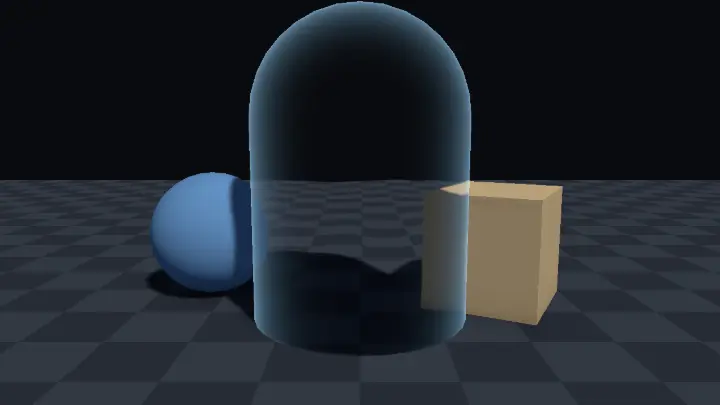
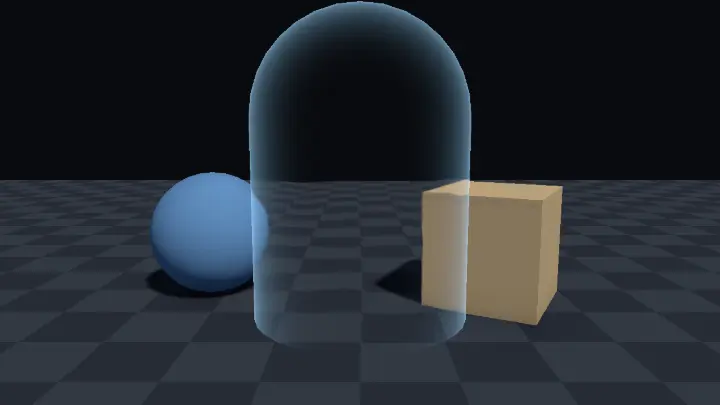
dispatch(cloak-refraction-shimmer-fix): 표본 수정: cloak-refraction-shimmer 리뷰 반영
Dispatch-Job: cloak-refraction-shimmer-fix
Dispatch-Profile: org
Dispatch-Model: claude-opus-5-5

Changed region(s): [[0.3056, 0.4444, 0.6722, 0.8889], [0.3972, 0.4444, 0.4278, 0.4741]]

diff --git a/web/src/specimens/cloak-refraction-shimmer/meta.ts b/web/src/specimens/cloak-refraction-shimmer/meta.ts
@@ -16,12 +16,12 @@ export const meta: SpecimenMeta = {
     'Opaque Texture 를 법선으로 민 화면 좌표로 읽어 몸 대신 뒤 장면을 그리고, 앞 물체가 끌려 들어오지 않게 깊이로 거를 수 있다.',
     '진행값 하나로 높이·노이즈·프레넬 마스크 위의 경계 띠를 훑어 은신을 켜고 끌 수 있다.',
     '프레넬 테두리와 최대 은신 값으로 "보이지 않지만 알아볼 수 있는" 정도를 게임 규칙에 맞출 수 있다.',
-    'C# 으로 여러 Renderer 의 머티리얼을 함께 움직이고, 은신 중 그림자를 끄고 피격 노출을 제한기로 거는 이유를 설명할 수 있다.',
+    'C# 으로 이 셰이더를 쓰는 Renderer 의 머티리얼만 복사해 함께 움직이고, 전환 중 요청을 미루고 피격 노출을 제한기로 거는 이유를 설명할 수 있다.',
   ],
   tags: ['씬 컬러', '화면 좌표 왜곡', '프레넬', '노이즈', '진행값 마스크'],
   difficulty: 3,
   shaderFile: 'CloakRefractionShimmer.shader',
-  stage: { kind: 'depth', mesh: 'capsule', blend: 'alpha' },
+  stage: { kind: 'depth', mesh: 'capsule', blend: 'alpha', zwrite: true },
   requires: ['opaque', 'depth'],
   params: [
     { key: '_Cloak', label: '은신', type: 'range', min: 0, max: 1, step: 0.01, default: 0.55, hint: '0 은 보이는 몸, 1 은 완전 은신. 경계 띠가 이 값을 따라 몸 위를 훑는다. 자동 데모와 C# `CloakController.SetCloaked` 가 이 값을 움직인다. 머티리얼 기본값 0.55 는 미리보기용이고 C# 은 0 에서 시작한다' },
@@ -42,7 +42,7 @@ export const meta: SpecimenMeta = {
     { key: '_BodyBottom', showWhen: { key: '_MaskMode', values: ['0'] }, label: '몸 아래 끝', type: 'range', min: -2, max: 2, step: 0.05, default: -1, hint: '높이 훑기가 시작하는 오브젝트 공간 y. 기본 캡슐은 가운데가 피벗이라 -1 이다. 발에 피벗이 있는 캐릭터는 0 으로 둔다. 높이 훑기에서만 쓴다' },
     { key: '_BodyHeight', showWhen: { key: '_MaskMode', values: ['0'] }, label: '몸 높이', type: 'range', min: 0.5, max: 4, step: 0.05, default: 2, hint: '발에서 머리까지 오브젝트 공간 길이. 실제보다 작으면 은신이 끝나기 전에 띠가 머리를 지나가 버리고, 크면 끝까지 머리가 남는다. 높이 훑기에서만 쓴다' },
     { key: '_Refraction', label: '굴절 세기', type: 'range', min: 0, max: 0.15, step: 0.005, default: 0.05, hint: '뒤 장면을 미는 양(화면 높이 단위). 0 이면 뒤가 곧게 비쳐 테두리만 남고, 크면 몸 모양대로 뒤가 크게 일그러져 움직일 때 눈에 띈다' },
-    { key: '_CalmAtFull', label: '완전 은신 때 굴절 줄이기', type: 'toggle', default: true, hint: '은신이 끝나 갈수록 미는 양을 0.3 배까지 줄인다. 전환 중에는 일렁여 눈에 띄고 다 숨으면 거의 보이지 않는다. 끄면 다 숨어도 굴절 세기 그대로 일렁인다' },
+    { key: '_CalmAtFull', label: '완전 은신 때 굴절 줄이기', type: 'toggle', default: true, hint: '은신이 끝나 갈수록 미는 양을 0.3 배까지 줄인다. 전환 중에는 일렁여 눈에 띄고 다 숨으면 거의 보이지 않는다. 끄면 다 숨어도 굴절 세기 그대로 일렁인다. 은신 0.6 이상에서만 차이가 난다' },
     { key: '_ShimmerSpeed', label: '일렁임 속도', type: 'range', min: 0, max: 3, step: 0.05, default: 0.8, hint: '굴절에 더하는 노이즈가 위로 흐르는 빠르기. 0 이면 몸에 붙은 채 멈춘 결이 된다' },
     { key: '_NoiseScale', label: '노이즈 크기', type: 'range', min: 1, max: 20, step: 0.5, default: 6, hint: '일렁임 결, 높이 경계의 흔들림, 노이즈 디졸브 얼룩의 촘촘함. 작으면 크게 굽이치고 크면 잘게 부서진다' },
     { key: '_RimColor', label: '테두리 색', type: 'color', default: '#9fd8ff', hint: '은신한 만큼 윤곽에 더하는 색. 팀 색으로 바꿔 쓸 수 있다' },
@@ -50,7 +50,7 @@ export const meta: SpecimenMeta = {
     { key: '_RimPower', label: '테두리 날카로움', type: 'range', min: 0.5, max: 8, step: 0.1, default: 3, hint: '클수록 테두리가 윤곽의 가는 선으로 좁아지고, 작으면 몸 안쪽까지 번진다' },
     { key: '_BandColor', label: '경계 띠 색', type: 'color', default: '#7fd4ff', hint: '보이는 곳과 숨은 곳 사이를 지나가는 띠의 색' },
     { key: '_BandWidth', label: '경계 띠 폭', type: 'range', min: 0.01, max: 0.3, step: 0.01, default: 0.08, hint: '띠의 두께(마스크 값 기준). 넓히면 전환이 부드럽고 띠가 굵어진다' },
-    { key: '_BandGlow', label: '경계 띠 밝기', type: 'range', min: 0, max: 3, step: 0.05, default: 1, hint: '띠 색에 곱하는 밝기. 0 이면 어두운 띠가 된다. 넓은 몸을 띠가 훑을 때 번쩍이지 않게 기본은 낮게 두었다' },
+    { key: '_BandGlow', label: '경계 띠 밝기', type: 'range', min: 0, max: 3, step: 0.05, default: 1, hint: '띠 색에 곱하는 밝기. 띠는 바탕에 더하지 않고 85% 덮으므로 기본 1 은 띠 색 그대로이고, 0 이면 어두운 띠가 된다. 2 이상은 띠 색보다 밝아 넓은 몸을 훑을 때 번쩍여 보일 수 있다' },
     { key: '_BaseColor', label: '몸 색', type: 'color', default: '#8a96a3', hint: '보이는 상태의 몸 색. 주 광원과 환경광으로 음영한다' },
   ],
   presets: [
@@ -75,17 +75,17 @@ export const meta: SpecimenMeta = {
   },
   steps: [
     { n: 1, label: '화면 공간 오프셋', body: '월드 법선을 카메라의 오른쪽, 위 축에 내린 값(반대 방향)에 흐르는 노이즈를 더한 미는 방향이다. 빨강이 가로, 초록이 세로로 미는 양이다. 캡슐 가운데는 노이즈 얼룩이 섞인 연한 파스텔색이고, 왼쪽 가장자리는 분홍(오른쪽으로 민다), 오른쪽은 청록(왼쪽으로 민다), 위 둥근 끝은 자홍(아래로 민다)으로 짙어진다. 가장자리마다 가운데 쪽을 가리켜 몸 뒤 장면을 조금 키워 보인다. 재생하면 얼룩이 천천히 위로 흐른다. 이 방향에 굴절 세기를 곱해 씬 색상을 읽는 자리를 옮긴다.' },
-    { n: 2, label: '은신 마스크와 경계 띠', body: '픽셀마다 언제 사라질지 정한 값과 진행값을 비교한 결과다. 검정은 아직 보이는 몸, 회색은 숨은 곳, 흰 띠가 그 사이를 지나가는 경계다. 높이 훑기에서는 발(바닥 아래)부터 숨어 지금은 아래쪽 절반이 회색이고, 노이즈로 흔든 흰 띠가 가운데를 구불구불 가로지른다. 은신 값을 올리면 띠가 머리 쪽으로 올라간다. 마스크 방식을 프레넬 안쪽부터로 바꾸면 가운데부터 회색이 되고 흰 띠가 윤곽 쪽으로 퍼져 나간다.' },
+    { n: 2, label: '은신 마스크와 경계 띠', body: '픽셀마다 언제 사라질지 정한 값과 진행값을 비교한 결과다. 검정은 아직 보이는 몸, 회색은 숨은 곳, 흰 띠가 그 사이를 지나가는 경계다. 높이 훑기에서는 발(아래 끝)부터 숨어 지금은 아래쪽 절반이 회색이고, 노이즈로 흔든 흰 띠가 가운데를 구불구불 가로지른다. 은신 값을 올리면 띠가 머리 쪽으로 올라간다. 마스크 방식을 프레넬 안쪽부터로 바꾸면 가운데부터 회색이 되고 흰 띠가 윤곽 쪽으로 퍼져 나간다.' },
     { n: 3, label: '가드를 거친 휜 배경', body: '밀린 좌표로 Opaque Texture 를 읽은 결과다. 몸 전체가 뒤의 바닥 격자와 상자로 채워지고, 격자 줄이 몸 모양과 노이즈 결을 따라 물결친다. 위쪽은 검은 하늘뿐이라 휘어도 티가 나지 않는다. 가장자리는 가운데 쪽 장면을 끌어와 읽으므로 공의 오른쪽 일부가 몸 가장자리에서 끊기고 바닥으로 바뀐다. 밀린 자리가 몸보다 앞에 있는 물체면 밀지 않은 좌표로 돌아가 앞 물체가 몸 속으로 끌려 들어오지 않는다. 아직 몸 색, 테두리, 띠가 없다.' },
     { n: 4, label: '프레넬 테두리', body: '가운데는 어둡고 시선과 비스듬한 윤곽으로 갈수록 밝다. 은신한 만큼만 이 테두리를 얹어, 다 숨은 몸도 윤곽으로는 알아볼 수 있게 한다. 최종 화면에서는 아직 보이는 위쪽 몸에는 테두리가 없고, 숨은 아래쪽 윤곽에만 남는다.' },
   ],
-  offNote: '굴절과 테두리 없이 몸 색의 알파만 `1 - 은신` 으로 낮춘 페이드. 중간에는 회색 몸과 휘지 않은 뒤 장면이 반씩 겹쳐 비쳐 반투명 유령처럼 보이고, 은신이 끝나면 테두리도 일렁임도 없이 실루엣까지 통째로 사라져 어디 있는지 알 길이 없다. 실제 캐릭터에서는 깊이를 쓰지 않는 알파 혼합이라 중간에 몸 뒷면과 겹친 팔다리까지 함께 비친다.',
+  offNote: '굴절과 테두리 없이 몸 색의 알파만 `1 - 은신` 으로 낮춘 페이드. 중간에는 회색 몸과 휘지 않은 뒤 장면이 반씩 겹쳐 비쳐 반투명 유령처럼 보이고, 은신이 끝나면 테두리도 일렁임도 없이 실루엣까지 통째로 사라져 어디 있는지 알 길이 없다. 실제 캐릭터에서는 깊이를 쓰지 않는 알파 혼합이라 중간에 몸 뒤쪽에 겹친 부분과 팔다리까지 함께 비친다.',
   mistakes: [
     { title: '망토 속에서 뒤의 연기, 파티클, 물, 유리가 사라진다', body: 'Opaque Texture 는 불투명 범위(Render Queue 2500 이하)까지 그린 뒤 복사한 것이라 투명 물체가 들어 있지 않다. 은신한 몸은 그 복사본을 알파 1 로 덮어 그리므로, 몸보다 먼저 그려진 뒤쪽 투명 물체는 몸 모양대로 지워진다. 몸보다 늦게 그려지는 뒤쪽 투명 물체는 이 셰이더가 깊이를 써 두었으므로 가려진다. 꼭 비쳐야 하는 물체는 불투명이나 잘라 내기 머티리얼로 바꾼다.' },
     { title: '앞에 있는 물체가 몸 속으로 끌려 들어온다', body: 'Opaque Texture 는 앞뒤를 가리지 않고 화면 전체를 담는다. 밀린 좌표가 몸 앞 물체에 닿으면 그 색을 읽는다. 이 셰이더는 이 픽셀의 눈 깊이(`sgSceneDepth(i.screenUV) - i.depthDelta`)와 밀린 좌표의 깊이를 비교해 앞이면 밀지 않은 좌표로 돌아간다. 그래도 끌려 들어오면 URP Asset 의 Depth Texture 가 켜져 있는지 본다. 꺼져 있으면 깊이를 읽지 못해 이 가드가 동작하지 않는다.' },
     { title: '은신한 몸이 회색이나 검은 판으로 보인다', body: 'URP Asset 의 Opaque Texture 가 꺼져 있으면 씬 색상이 비어 있다. 품질 단계마다 URP Asset 이 따로 있으면 모두 켜고, 카메라 Inspector 의 Rendering > Opaque Texture 가 Off 이면 Use Pipeline Settings 로 바꾼다. 머티리얼의 Render Queue 를 2500 이하로 바꾸면 복사되기 전에 그려지므로 From Shader(Transparent)로 둔다.' },
-    { title: '팔이 몸통 앞을 지나는데 팔 속에 몸통이 아니라 뒤 배경이 비친다', body: '몸은 자기 자신을 비추지 못한다. Opaque Texture 는 불투명 장면만 담고 은신한 몸은 그 안에 없으므로, 팔이 휘어 보여 주는 것은 몸통 너머의 배경이다. 이 셰이더는 깊이 패스(`CloakDepth`)로 가장 앞면만 남겨 몸통이 팔 위에 칠해지지는 않게 했다. 팔과 몸통이 겹친 자리의 굴절이 어색하면 굴절 세기를 낮춰 눈에 덜 띄게 한다.' },
-    { title: '몸은 사라졌는데 바닥에 그림자가 걸어 다닌다', body: '이 셰이더는 보이는 상태의 몸을 위해 `ShadowCaster` 패스를 둔다. 은신 값만 올리면 그림자는 그대로다. `CloakController` 는 은신이 절반을 넘으면 Renderer 의 Cast Shadows 를 Off 로 바꾸고, 내려오면 원래 값으로 돌린다. 스크립트 없이 머티리얼 값만 바꿀 때는 Mesh Renderer(Skinned Mesh Renderer)의 Lighting > Cast Shadows 를 직접 끈다.' },
+    { title: '팔이 몸통 앞을 지나는데 팔 속에 몸통이 아니라 뒤 배경이 비친다', body: '몸은 자기 자신을 비추지 못한다. Opaque Texture 는 불투명 장면만 담고 은신한 몸은 그 안에 없으므로, 팔이 휘어 보여 주는 것은 몸통 너머의 배경이다. 이 셰이더는 Forward 패스 하나가 `ZWrite On` 으로 깊이를 쓴다. 몸이 스스로 겹친 자리가 어떻게 그려지는지는 웹 미리보기 링크에 `s.mesh=torus` 를 붙이거나 Unity 촬영 도구의 `--stage=mesh=torus` 로 고리 메시를 띄워 볼 수 있다. 팔과 몸통이 겹친 자리의 굴절이 어색하면 굴절 세기를 낮춰 눈에 덜 띄게 한다.' },
+    { title: '보이는 상태의 캐릭터에 그림자가 없다', body: '이 머티리얼은 투명 큐 셰이더라 그림자를 만들지 않는다 (`ShadowCaster` 패스가 없다). 은신 값이 0 이어도 바닥에 그림자가 생기지 않는다. 보이는 동안 그림자가 필요하면 평소에는 불투명 Lit 머티리얼을 쓰고 은신할 때만 이 머티리얼로 바꾼다 (바꾸는 순간 그림자도 사라진다). 이 셰이더에 `ShadowCaster` 패스를 더하면 다 숨은 뒤에도 바닥에 그림자가 걸어 다니고, 숨은 몸이 비추는 바닥에 자기 그림자가 찍혀 아래쪽이 검게 보인다.' },
   ],
   unity: {
     setup: [
@@ -93,24 +93,24 @@ export const meta: SpecimenMeta = {
       '사용 중인 URP Asset(Project Settings > Quality 에 연결된 것)의 Rendering 에서 Opaque Texture 와 Depth Texture 를 켠다.',
       '셰이더를 우클릭해 Create > Material 로 머티리얼을 만들고, 캐릭터의 모든 Mesh Renderer, Skinned Mesh Renderer 의 Materials 칸에 넣는다. 머티리얼의 은신 값은 0 으로 낮춰 둔다 (기본 0.55 는 미리보기용이다).',
       '높이 훑기를 쓰면 몸 아래 끝과 몸 높이를 모델의 오브젝트 공간에 맞춘다. 발에 피벗이 있는 키 1.8 인 캐릭터는 0 과 1.8 이다. Skinned Mesh Renderer 는 오브젝트 공간이 모델에 따라 다를 수 있으므로, Scene 뷰에서 은신 값을 움직여 띠가 발에서 시작해 머리에서 끝나는지 본다.',
-      '캐릭터 루트에 `CloakController` 를 붙인다. 은신 스킬의 UnityEvent 에 `SetCloaked(bool)` 를, 피격 이벤트에 `RevealOnHit()` 를 연결한다. 시작할 때 모든 Renderer 의 머티리얼 복사본을 만들어 은신 0 으로 둔다.',
+      '캐릭터 루트에 `CloakController` 를 붙인다. 은신 스킬의 UnityEvent 에 `SetCloaked(bool)` 를, 피격 이벤트에 `RevealOnHit()` 를 연결한다. 시작할 때 이 셰이더(`_Cloak`)를 쓰는 Renderer 만 머티리얼 복사본을 만들어 은신 0 으로 둔다. 전환 중에 `SetCloaked` 를 다시 부르면 요청만 기억했다가 지금 전환이 끝난 뒤 그 방향으로 전환한다.',
       '캐릭터를 상자, 바닥 같은 불투명 물체 앞에 두고 Game 뷰에서 Play 해 본다.',
     ],
-    verify: '은신 값을 0 에서 1 로 올리면 밝은 띠가 발에서 머리로 올라가며 지나간 자리에 뒤의 바닥과 물체가 몸 모양대로 조금 휘어 비치고 윤곽에 하늘색 테두리가 남는다. `RevealOnHit()` 를 부르면 숨은 몸이 0.4 초쯤 반쯤 비쳐 드러났다 다시 숨고, `SetCloaked(true)` 뒤 절반을 넘으면 바닥 그림자가 사라진다.',
+    verify: '은신 값을 0 에서 1 로 올리면 밝은 띠가 발에서 머리로 올라가며 지나간 자리에 뒤의 바닥과 물체가 몸 모양대로 조금 휘어 비치고 윤곽에 하늘색 테두리가 남는다. `RevealOnHit()` 를 부르면 숨은 몸이 0.4 초쯤 반쯤 비쳐 드러났다 다시 숨는다. 은신 값이 0 일 때도 바닥에 그림자가 없는 것이 맞다 (이 머티리얼은 그림자를 만들지 않는다).',
     pitfalls: [
       'URP Asset 이 품질 단계마다 따로 있으면 모두 Opaque Texture 와 Depth Texture 를 켠다. Depth Texture 가 꺼지면 앞 물체 가드가 동작하지 않는다. 모바일은 Opaque Downsampling 을 2x Bilinear 이상으로 두면 복사 비용이 줄지만 몸 속 장면이 흐려져 은신한 몸이 오히려 눈에 띌 수 있다.',
-      '투명 큐에 있는 캐릭터는 Depth Texture 에도 들어가지 않는다 (불투명 뒤에 복사된다). SSAO, 물가 거품, 역장처럼 깊이를 읽는 다른 효과가 캐릭터를 무시하므로, 평소에는 불투명 머티리얼을 쓰고 은신할 때만 이 머티리얼로 바꾸는 방법을 권한다.',
-      '2D Renderer 는 Opaque Texture 를 만들지 않고 `UniversalForward` 패스도 그리지 않는다 (깊이 패스 `SRPDefaultUnlit` 만 그려져 아무것도 보이지 않는다). 3D 프로젝트(Universal Renderer)용 효과다.',
+      '이 머티리얼은 그림자를 만들지 않는다. 보이는 동안 그림자가 필요하면 평소에는 불투명 Lit 머티리얼을 쓰고 은신할 때만 이 머티리얼로 바꾼다 (바꾸는 순간 그림자도 사라진다). 투명 큐에 있는 캐릭터는 Depth Texture 에도 들어가지 않으므로 (불투명 뒤에 복사된다) 이렇게 바꿔 쓰면 SSAO, 물가 거품, 역장처럼 깊이를 읽는 다른 효과에서도 보이는 동안은 캐릭터가 빠지지 않는다.',
+      '2D Renderer 는 Opaque Texture 를 만들지 않고 `UniversalForward` 패스도 그리지 않아 아무것도 보이지 않는다. 3D 프로젝트(Universal Renderer)용 효과다.',
       'XR 에서는 Opaque Texture 가 눈마다 한 장씩인 배열이라 복사 비용이 두 배이고, 단독형(untethered) 기기에서는 Opaque Texture 를 끄라는 권고가 있다. 이 효과의 XR 동작은 실기기에서 확인하지 않았다.',
       '주 광원의 distanceAttenuation 을 곱하지 않으므로 광원의 Culling Mask 와 Rendering Layers 가 무시되고, 받는 그림자와 안개도 처리하지 않는다. 마스크와 일렁임은 오브젝트 공간 위치로 읽으므로 Batching Static 으로 정적 배칭된 물체는 무늬와 높이 훑기가 월드 기준으로 바뀐다. 캐릭터는 Static 에서 뺀다.',
-      '접근성: 경계 띠가 넓은 몸을 훑으므로 밝기를 낮게(기본 1) 둔다. 띠를 2 이상으로 밝히거나 여러 캐릭터가 동시에 전환하면 화면에서 넓게 번쩍일 수 있으니 게임 옵션으로 띠를 끌 수 있게 한다.',
+      '접근성: 경계 띠는 바탕에 더하지 않고 띠 색으로 85% 덮으며, 기본 밝기 1 은 띠 색(하늘색) 그대로다. 띠 밝기를 2 이상으로 올리거나 여러 캐릭터가 동시에 전환하면 화면에서 넓게 번쩍일 수 있으니 게임 옵션으로 띠를 끌 수 있게 한다. `CloakController` 는 전환 중의 `SetCloaked` 를 끝난 뒤로 미뤄 연타해도 띠가 같은 자리를 빠르게 오가지 않는다. 직접 `_Cloak` 을 움직이는 코드도 방향을 초당 3번 넘게 바꾸지 않는다.',
     ],
-    graph: 'Shader Graph 에서는 Graph Settings 의 Surface Type 을 Transparent 로 둔다. Normal Vector 노드(View 공간)의 xy 를 Negate 해 굴절 세기를 곱하고 Gradient Noise 를 더해 오프셋을 만든다. Screen Position 노드(Default)에 Add 해 Scene Color 노드에 넣는다 (화면비는 x 에 Screen 노드의 Height / Width 를 곱한다). 앞 물체 가드는 밀린 좌표로 읽은 Scene Depth 노드(Eye)가 Screen Position 노드(Raw)의 w 보다 작으면 Comparison 과 Branch 로 밀지 않은 좌표를 고른다. 마스크는 Position 노드(Object)의 y 를 Remap 한 값(또는 Fresnel Effect 노드의 반대)과 은신 값의 차이를 Smoothstep 해 만들고, Lerp 로 몸 색과 Scene Color 를 섞은 뒤 Fresnel Effect 로 테두리를 더한다. Shader Graph 에는 가장 앞면만 남기는 깊이 패스가 없으므로 Graph Settings 의 Depth Write 를 Force Enabled 로 둔다.',
+    graph: 'Shader Graph 에서는 Graph Settings 의 Surface Type 을 Transparent 로 둔다. Normal Vector 노드(View 공간)의 xy 를 Negate 해 굴절 세기를 곱하고 Gradient Noise 를 더해 오프셋을 만든다. Screen Position 노드(Default)에 Add 해 Scene Color 노드에 넣는다 (화면비는 x 에 Screen 노드의 Height / Width 를 곱한다). 앞 물체 가드는 밀린 좌표로 읽은 Scene Depth 노드(Eye)가 Screen Position 노드(Raw)의 w 보다 작으면 Comparison 과 Branch 로 밀지 않은 좌표를 고른다. 마스크는 Position 노드(Object)의 y 를 Remap 한 값(또는 Fresnel Effect 노드의 반대)과 은신 값의 차이를 Smoothstep 해 만들고, Lerp 로 몸 색과 Scene Color 를 섞은 뒤 Fresnel Effect 로 테두리를 더한다. HLSL 래퍼처럼 깊이를 써 몸의 가장 앞면만 남기려면 Graph Settings 의 Depth Write 를 Force Enabled 로 둔다.',
   },
   prompt: {
     goal: '캐릭터 몸 대신 뒤 장면을 조금 휘어 그리고 윤곽만 남겨 감추는 은신 셰이더와, 은신 켜고 끄기와 피격 노출을 거는 C# 스크립트를 넣는다. Opaque Texture 와 Depth Texture 를 읽으므로 URP Asset 설정이 함께 필요하다.',
     adaptIdeas: [
-      '평소에는 URP Lit 같은 불투명 머티리얼을 쓰다가 은신을 시작할 때만 이 머티리얼로 바꾸고 다 드러나면 되돌려, 깊이를 읽는 다른 효과에서 캐릭터가 빠지지 않게 하고 싶다.',
+      '이 머티리얼은 그림자를 만들지 않는다. 보이는 동안 그림자가 필요하므로 평소에는 URP Lit 같은 불투명 머티리얼을 쓰다가 은신을 시작할 때만 이 머티리얼로 바꾸고(바꾸는 순간 그림자도 사라진다) 다 드러나면 되돌리고 싶다. 보이는 동안은 깊이를 읽는 다른 효과에서도 캐릭터가 빠지지 않는다.',
       '같은 편 화면에서는 최대 은신을 0.85 로, 상대 편 화면에서는 1 로 두고 테두리 색을 팀 색으로 바꾸고 싶다.',
       '은신 중 달리거나 공격하면 이동 속도에 따라 은신 값이 잠깐 내려가 몸이 흐릿하게 드러나게 하고 싶다.',
       '은신한 몸 위로 홀로그램처럼 옅은 가로 줄이 천천히 지나가게 하고 싶다.',
@@ -127,11 +127,11 @@ export const meta: SpecimenMeta = {
       title: 'Team Fortress 2 (2007)',
       credit: 'Valve',
       borrowed: ['프레넬로 정면부터 사라지고 윤곽이 남는 은신 마스크', '같은 편에게는 최대 투명도를 제한'],
-      learned: 'Valve 가 공개한 Source SDK 2013 의 클로크 패스 픽셀 셰이더는 프레임 버퍼 복사본을 화면 공간 법선만큼 밀어 읽고, `1 - N·V` 프레넬로 은신 마스크를 만들며, 은신이 끝날수록 미는 양을 줄인다. 같은 저장소의 클라이언트 코드는 은신 비율을 머티리얼 프록시로 넣고 색조를 팀 색으로 바꾼다. 이 표본의 프레넬 안쪽부터 마스크, 완전 은신 때 굴절 줄이기, 최대 은신 값이 이 구조에서 왔다. 셰이더 코드와 화면은 옮기지 않았고 게임 화면은 직접 확인하지 못했다.',
+      learned: 'Valve 가 공개한 Source SDK 2013 의 클로크 패스 픽셀 셰이더는 프레임 버퍼 복사본을 화면 공간 법선만큼 밀어 읽고, `1 - N·V` 프레넬로 은신 마스크를 만들며, 은신이 끝날수록 미는 양을 줄인다. 같은 저장소의 클라이언트 코드는 은신 비율을 머티리얼 프록시로 넣고 색조를 팀 색으로 바꾼다. 같은 편에게 보이는 최대 투명도는 Valve 가 공개한 TF2 클라이언트 코드의 `tf_teammate_max_invis` 가 정하며 기본값은 0.95 다 (이 표본의 아군 프리셋은 차이가 화면에서 보이도록 0.85 로 더 낮췄다). 이 표본의 프레넬 안쪽부터 마스크, 완전 은신 때 굴절 줄이기, 최대 은신 값이 이 구조에서 왔다. 셰이더 코드와 화면은 옮기지 않았고 게임 화면은 직접 확인하지 못했다.',
       link: 'https://raw.githubusercontent.com/ValveSoftware/source-sdk-2013/master/src/materialsystem/stdshaders/cloak_blended_pass_ps2x.fxc',
     },
   ],
-  original: '특정 게임의 재현이 아니라 여러 엔진이 기본 셰이더 기능으로 넣어 온 은신 기법을 이 갤러리에서 새로 작성했다. 갤러리의 `screen-refraction-glass`(씬 색상 굴절과 앞 물체 가드), `fresnel-rim-glow`(테두리), `dissolve-edge-glow`(경계 띠 훑기)를 진행값 하나로 묶은 응용편이다. 높이 훑기와 노이즈 디졸브 마스크, 피격 노출 이벤트, 가장 앞면만 남기는 깊이 패스, 여러 Renderer 를 함께 움직이고 그림자를 끄는 C# 은 새로 더했다. 수업 3D 07 External Assets 의 FORGE3D `HeatDepthFixed` 가 같은 원리(씬 컬러 왜곡)를 에셋으로 쓴다.',
+  original: '특정 게임의 재현이 아니라 여러 엔진이 기본 셰이더 기능으로 넣어 온 은신 기법을 이 갤러리에서 새로 작성했다. 갤러리의 `screen-refraction-glass`(씬 색상 굴절과 앞 물체 가드), `fresnel-rim-glow`(테두리), `dissolve-edge-glow`(경계 띠 훑기)를 진행값 하나로 묶은 응용편이다. 높이 훑기와 노이즈 디졸브 마스크, 피격 노출 이벤트, 깊이를 써 가장 앞면만 남기는 Forward 패스, 이 셰이더를 쓰는 Renderer 만 함께 움직이고 연타를 미루는 C# 은 새로 더했다. 수업 3D 07 External Assets 의 FORGE3D `HeatDepthFixed` 가 같은 원리(씬 컬러 왜곡)를 에셋으로 쓴다.',
   references: [
     { label: 'Valve: Source SDK 클로크 패스 픽셀 셰이더', url: 'https://raw.githubusercontent.com/ValveSoftware/source-sdk-2013/master/src/materialsystem/stdshaders/cloak_blended_pass_ps2x.fxc' },
     { label: 'Valve: Source SDK VertexLitGeneric 의 클로크 파라미터', url: 'https://raw.githubusercontent.com/ValveSoftware/source-sdk-2013/master/src/materialsystem/stdshaders/vertexlitgeneric_dx9.cpp' },

diff --git a/Assets/Shaders/cloak-refraction-shimmer/CloakController.cs b/Assets/Shaders/cloak-refraction-shimmer/CloakController.cs
@@ -1,9 +1,8 @@
-// 은신: 자식의 모든 Renderer 머티리얼 복사본에서 은신 값(_Cloak)을 함께 올리고 내리며, 피격 때 잠깐 드러낸다(_Reveal).
-// 은신이 절반을 넘으면 그림자를 끄고, 내려오면 원래 그림자 설정으로 돌린다. 캐릭터 루트에 붙여 쓴다.
+// 은신: 자식 Renderer 중 이 셰이더(_Cloak)를 쓰는 것만 머티리얼 복사본을 만들어 은신 값을 함께 올리고 내리며,
+// 피격 때 잠깐 드러낸다(_Reveal). 이 머티리얼은 그림자를 만들지 않는다. 캐릭터 루트에 붙여 쓴다.
 using System.Collections;
 using System.Collections.Generic;
 using UnityEngine;
-using UnityEngine.Rendering;
 
 namespace ShaderGallery.Samples
 {
@@ -23,78 +22,96 @@ namespace ShaderGallery.Samples
         [SerializeField] float minRevealInterval = 0.34f;
 
         readonly List<Material> materials = new List<Material>();
-        readonly List<Renderer> renderers = new List<Renderer>();
-        readonly List<ShadowCastingMode> originalShadows = new List<ShadowCastingMode>();
 
         float cloak;
-        bool shadowsHidden;
         Coroutine cloakRoutine;
         Coroutine revealRoutine;
         // Time.unscaledTime 기준. Time.time 으로 세면 Time.timeScale 을 올렸을 때 실제로는 초당 3 번을 넘는다.
         float lastRevealTime = float.NegativeInfinity;
 
-        /// <summary>지금 은신 쪽으로 가고 있거나 은신한 상태인지.</summary>
+        /// <summary>마지막으로 요청한 상태(은신이면 true). 전환 중에 바뀐 요청은 지금 전환이 끝난 뒤 반영된다.</summary>
         public bool IsCloaked { get; private set; }
 
         void Awake()
         {
-            // SkinnedMeshRenderer 를 포함해 자식의 모든 Renderer 를 모은다. 꺼진 자식(무기 등)도 나중에 켜질 수 있어 함께 모은다.
+            // SkinnedMeshRenderer 를 포함해 자식의 모든 Renderer 를 살핀다. 꺼진 자식(무기 등)도 나중에 켜질 수 있어 함께 살핀다.
             foreach (Renderer r in GetComponentsInChildren<Renderer>(true))
             {
-                // materials 는 이 Renderer 전용 복사본 배열을 만든다. 공유 머티리얼을 고치면 같은 머티리얼의 다른 캐릭터도 사라진다.
-                Material[] copies = r.materials;
+                // 먼저 공유 머티리얼(sharedMaterials)로 이 셰이더를 쓰는지 본다. 무기의 Lit, 파티클, 트레일처럼
+                // _Cloak 이 없는 Renderer 까지 materials 를 부르면 쓸데없는 복사본이 생기고,
+                // 그 뒤로는 공유 머티리얼(에셋)을 고쳐도 이 캐릭터에는 반영되지 않는다.
                 bool uses = false;
-                foreach (Material m in copies)
+                foreach (Material m in r.sharedMaterials)
                 {
-                    materials.Add(m);
-                    if (m.HasProperty(CloakId))
+                    if (m != null && m.HasProperty(CloakId))
                     {
                         uses = true;
+                        break;
+                    }
+                }
+                if (!uses)
+                {
+                    continue;
+                }
+                // materials 는 이 Renderer 전용 복사본 배열을 만든다. 공유 머티리얼을 고치면 같은 머티리얼의 다른 캐릭터도 사라진다.
+                // 같은 Renderer 의 다른 머티리얼도 함께 복사되므로 모두 목록에 넣어 OnDestroy 에서 지운다.
+                foreach (Material m in r.materials)
+                {
+                    materials.Add(m);
+                    if (m != null && m.HasProperty(CloakId))
+                    {
                         // 머티리얼 기본값은 미리보기용이라 반쯤 은신해 있다. 보이는 모습으로 시작한다.
                         m.SetFloat(CloakId, 0f);
                         m.SetFloat(RevealId, 0f);
                     }
-                }
-                if (uses)
-                {
-                    renderers.Add(r);
-                    originalShadows.Add(r.shadowCastingMode);
                 }
             }
         }
 
         void OnEnable()
         {
-            // 은신한 채 꺼졌다 켜졌으면 그림자도 은신 상태에 맞춘다.
-            ApplyShadows(cloak > 0.5f);
+            // 전환 도중에 꺼졌다 켜졌으면 마지막 요청 쪽으로 이어 간다.
+            if (cloakRoutine == null && !Mathf.Approximately(cloak, IsCloaked ? 1f : 0f))
+            {
+                cloakRoutine = StartCoroutine(Fade());
+            }
         }
 
-        /// <summary>은신을 켜거나 끈다. 인자가 bool 이라 Toggle 같은 UnityEvent(Dynamic bool)에 바로 연결할 수 있다.</summary>
+        /// <summary>
+        /// 은신을 켜거나 끈다. 인자가 bool 이라 Toggle 같은 UnityEvent(Dynamic bool)에 바로 연결할 수 있다.
+        /// 전환 중에 부르면 요청만 기억하고, 지금 전환이 끝난 뒤 그 방향으로 다시 전환한다.
+        /// </summary>
         public void SetCloaked(bool cloaked)
         {
-            // 꺼진 오브젝트에서는 StartCoroutine 이 오류를 낸다.
+            IsCloaked = cloaked;
+            // 꺼진 오브젝트에서는 StartCoroutine 이 오류를 낸다. 요청은 기억해 두었다가 OnEnable 에서 이어 간다.
             if (!isActiveAndEnabled)
             {
                 return;
             }
-            IsCloaked = cloaked;
-            if (cloakRoutine != null)
+            if (cloakRoutine == null)
             {
-                StopCoroutine(cloakRoutine);
+                cloakRoutine = StartCoroutine(Fade());
             }
-            cloakRoutine = StartCoroutine(Fade(cloaked ? 1f : 0f));
         }
 
-        IEnumerator Fade(float target)
+        IEnumerator Fade()
         {
-            // 도중에 방향을 바꾸면 지금 값에서 이어 가고, 남은 거리만큼만 시간을 쓴다.
+            // 도중에 방향을 바꾸지 않는다. 연타할 때마다 되돌리면 경계 띠가 같은 자리를 빠르게 오가며 깜빡인다(초당 3회를 넘을 수 있다).
+            // 띠는 전환마다 한 자리를 한 번 지나고 전환 하나는 0.8초 이상 걸리므로, 연타해도 평균 초당 1.25회를 넘지 않는다.
+            // 전환은 일시정지에 맞춰 멈추도록 게임 시간(Time.deltaTime)으로 센다. Time.timeScale 을 2 이상으로 올리는 게임은 이 빈도도 그만큼 오른다.
             float duration = Mathf.Clamp(transitionSeconds, 0.8f, 1.2f);
+            float target = IsCloaked ? 1f : 0f;
             while (!Mathf.Approximately(cloak, target))
             {
                 cloak = Mathf.MoveTowards(cloak, target, Time.deltaTime / duration);
                 SetAll(CloakId, cloak);
-                ApplyShadows(cloak > 0.5f);
                 yield return null;
+                // 끝에 닿은 뒤에만 그동안 바뀐 요청을 읽는다.
+                if (Mathf.Approximately(cloak, target))
+                {
+                    target = IsCloaked ? 1f : 0f;
+                }
             }
             cloakRoutine = null;
         }
@@ -149,32 +166,14 @@ namespace ShaderGallery.Samples
             }
         }
 
-        // 은신이 절반을 넘으면 그림자를 끈다. 몸은 사라졌는데 바닥에 그림자만 걸어 다니지 않게 한다.
-        void ApplyShadows(bool hide)
-        {
-            if (hide == shadowsHidden)
-            {
-                return;
-            }
-            shadowsHidden = hide;
-            for (int k = 0; k < renderers.Count; k++)
-            {
-                if (renderers[k] != null)
-                {
-                    renderers[k].shadowCastingMode = hide ? ShadowCastingMode.Off : originalShadows[k];
-                }
-            }
-        }
-
         void OnDisable()
         {
-            // 전환 도중에 꺼져도 코루틴이 남지 않게 멈추고, 노출 값은 0 으로, 그림자는 원래 설정으로 되돌린다.
+            // 전환 도중에 꺼져도 코루틴이 남지 않게 멈추고, 노출 값은 0 으로 되돌린다.
             // 은신 값(cloak)은 그대로 두어 다시 켜면 이어 간다. lastRevealTime 은 지우지 않는다 (껐다 켜서 제한을 피하지 못하게).
             StopAllCoroutines();
             cloakRoutine = null;
             revealRoutine = null;
             SetAll(RevealId, 0f);
-            ApplyShadows(false);
         }
 
         void OnDestroy()
